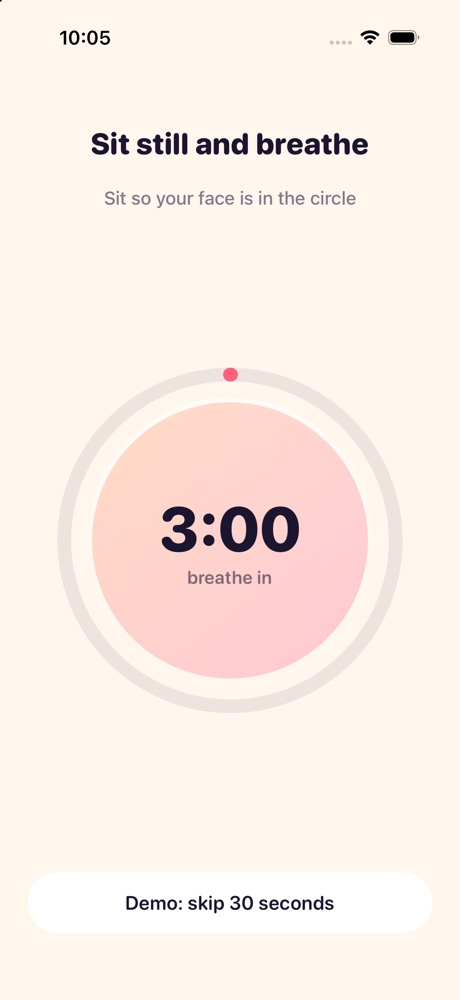
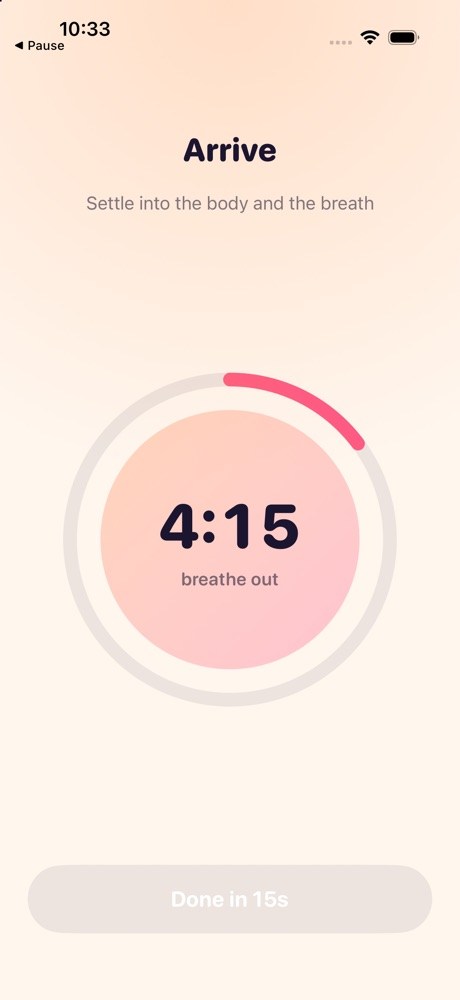
Honor system and guided meditations instead of camera checks

diff --git a/index.html b/index.html
@@ -4,9 +4,9 @@
 <meta charset="utf-8">
 <meta name="viewport" content="width=device-width, initial-scale=1">
 <title>Rise: Meditate to Wake Up</title>
-<meta name="description" content="An alarm that turns off after you sit still for 3 minutes.">
+<meta name="description" content="An alarm that stops after a short guided meditation.">
 <meta property="og:title" content="Rise: Meditate to Wake Up">
-<meta property="og:description" content="An alarm that turns off after you sit still for 3 minutes.">
+<meta property="og:description" content="An alarm that stops after a short guided meditation.">
 <meta property="og:image" content="img/home.jpg">
 <link rel="icon" href="img/icon.png">
 <link rel="preconnect" href="https://fonts.googleapis.com">
@@ -96,7 +96,7 @@
     <div>
       <span class="pill">🌅 Coming soon to iPhone</span>
       <h1>Wake up<br><span class="grad">calm.</span></h1>
-      <p class="lead">Your alarm turns off after you sit still for 3 minutes. Mind first, phone second.</p>
+      <p class="lead">Your alarm stops after a short guided meditation. Mind first, phone second.</p>
       
       <form class="waitlist" data-where="hero">
         <div class="row">
@@ -116,29 +116,29 @@
 
 <section><div class="wrap">
   <div class="eyebrow">How it works</div>
-  <h2>Three quiet minutes before the noise.</h2>
-  <p class="sub">No guided voice and no app to open. Just you, sitting still, before the day starts.</p>
-  <div class="steps"><div class="card"><div class="n">1</div><h3>Set your wake time</h3><p>Rise uses a real alarm that rings even on silent.</p></div><div class="card"><div class="n">2</div><h3>Sit up and breathe</h3><p>Prop your phone in front of you. The circle breathes with you.</p></div><div class="card"><div class="n">3</div><h3>Stay still</h3><p>Your camera checks you&#x27;re still. Move and the timer pauses. Then the alarm stops.</p></div></div>
-  <div class="tasks"><div class="task"><div class="e">🧘</div><div><h3>1, 3, 5 or 10 minutes</h3><p class="fine">Start with 1 and work up. Most people pick 3.</p></div></div><div class="task"><div class="e">📷</div><div><h3>Checked on your phone</h3><p class="fine">The camera only checks that you&#x27;re still. Nothing is recorded.</p></div></div></div>
+  <h2>A few quiet minutes before the noise.</h2>
+  <p class="sub">A short guided meditation, then your day. No scrolling first.</p>
+  <div class="steps"><div class="card"><div class="n">1</div><h3>Set your wake time</h3><p>Rise uses a real alarm that rings even on silent.</p></div><div class="card"><div class="n">2</div><h3>Pick a meditation</h3><p>Choose from a menu of short guided sits.</p></div><div class="card"><div class="n">3</div><h3>Sit with it</h3><p>The meditation plays. When you&#x27;re done, the alarm is off and the day begins.</p></div></div>
+  <div class="tasks"><div class="task"><div class="e">🧘</div><div><h3>5 to 10 minutes</h3><p class="fine">Arrive, breath counting, body scan, loving-kindness and more.</p></div></div><div class="task"><div class="e">🎧</div><div><h3>Guided audio</h3><p class="fine">Plays even on silent, with your screen locked.</p></div></div></div>
 </div></section>
 
 <section><div class="wrap">
   <div class="eyebrow">The math</div>
   <h2>Three minutes a day adds up.</h2>
   <p class="sub">Example numbers for one year.</p>
-  <div class="math"><div class="card"><div class="big">18 hours</div><p>of sitting a year.<br>3 min × 365 ÷ 60</p></div><div class="card"><div class="big">365</div><p>mornings that start calm.<br>1 a day × 365</p></div><div class="card"><div class="big">0</div><p>minutes on your phone<br>before you sit</p></div></div>
+  <div class="math"><div class="card"><div class="big">30 hours</div><p>of sitting a year.<br>5 min × 365 ÷ 60</p></div><div class="card"><div class="big">365</div><p>mornings that start calm.<br>1 a day × 365</p></div><div class="card"><div class="big">0</div><p>minutes on your phone<br>before you sit</p></div></div>
 </div></section>
 
 <section><div class="wrap">
   <div class="eyebrow">Inside the app</div>
   <h2>Simple on purpose.</h2>
-  <div class="gallery"><figure><div class="phone"><img src="img/intro.jpg" alt="Wake up calm" loading="lazy"></div><figcaption>Wake up calm</figcaption></figure><figure><div class="phone"><img src="img/mission.jpg" alt="Sit and breathe" loading="lazy"></div><figcaption>Sit and breathe</figcaption></figure><figure><div class="phone"><img src="img/projection.jpg" alt="Your year" loading="lazy"></div><figcaption>Your year</figcaption></figure><figure><div class="phone"><img src="img/home.jpg" alt="Your streak" loading="lazy"></div><figcaption>Your streak</figcaption></figure></div>
+  <div class="gallery"><figure><div class="phone"><img src="img/intro.jpg" alt="Wake up calm" loading="lazy"></div><figcaption>Wake up calm</figcaption></figure><figure><div class="phone"><img src="img/mission.jpg" alt="Guided meditation" loading="lazy"></div><figcaption>Guided meditation</figcaption></figure><figure><div class="phone"><img src="img/projection.jpg" alt="Your year" loading="lazy"></div><figcaption>Your year</figcaption></figure><figure><div class="phone"><img src="img/home.jpg" alt="Your streak" loading="lazy"></div><figcaption>Your streak</figcaption></figure></div>
 </div></section>
 
 <section><div class="wrap">
   <div class="eyebrow">Questions</div>
   <h2>Good questions.</h2>
-  <div class="faq"><details><summary>Do I need to know how to meditate?</summary><p>No. You just sit still and breathe with the circle. That&#x27;s it.</p></details><details><summary>Does the alarm work on silent?</summary><p>Yes. Rise uses Apple&#x27;s alarm system (iOS 26), the same one the Clock app uses.</p></details><details><summary>Does the camera record me?</summary><p>No. It only checks that your face is still. Nothing is saved or uploaded.</p></details><details><summary>Is it on Android?</summary><p>iPhone first. Join the waitlist and pick Android. That tells us how many people want it.</p></details></div>
+  <div class="faq"><details><summary>Do I need to know how to meditate?</summary><p>No. The recording guides you the whole way.</p></details><details><summary>Does the alarm work on silent?</summary><p>Yes. Rise uses Apple&#x27;s alarm system (iOS 26), the same one the Clock app uses.</p></details><details><summary>What if I&#x27;m short on time?</summary><p>Pick a 5-minute one. You can tap done after the first minute.</p></details><details><summary>Is it on Android?</summary><p>iPhone first. Join the waitlist and pick Android. That tells us how many people want it.</p></details></div>
 </div></section>
 
 <section class="final" id="join"><div class="wrap">

diff --git a/privacy.html b/privacy.html
@@ -4,7 +4,7 @@
 h1{font:900 40px ui-rounded,system-ui,sans-serif;margin:0 0 6px}h2{font:800 22px ui-rounded,system-ui,sans-serif;margin:36px 0 8px}p{color:rgba(28,21,48,.6)}a{color:#FF8A3D}.date{font-size:14px}</style>
 </head><body><main><p><a href="index.html">← Rise</a></p><h1>Privacy Policy</h1><p class="date">Last updated: October 20, 2026</p>
 <p>Rise is built to know as little about you as possible.</p>
-<h2>The camera</h2><p>The camera checks your push-ups or that you're sitting still. This happens on your phone, as it happens. No photos or video are saved, uploaded or shared.</p>
+<h2>No camera, no microphone</h2><p>Rise doesn't use your camera or microphone.</p>
 <h2>What stays on your phone</h2><p>Your settings, streaks and quiz answers stay on your phone.</p>
 <h2>This website</h2><p>If you join the waitlist, we store your email and which phone you use. We use it only to tell you about Rise. You can ask us to delete it at any time.</p>
 <h2>Children</h2><p>Rise is not meant for children under 13.</p></main></body></html>

diff --git a/support.html b/support.html
@@ -4,5 +4,5 @@
 h1{font:900 40px ui-rounded,system-ui,sans-serif;margin:0 0 6px}h2{font:800 22px ui-rounded,system-ui,sans-serif;margin:36px 0 8px}p{color:rgba(28,21,48,.6)}a{color:#FF8A3D}.date{font-size:14px}</style>
 </head><body><main><p><a href="index.html">← Rise</a></p><h1>Support</h1>
 <p>Questions about Rise? We usually reply within a day.</p>
-<h2>The camera doesn't see me</h2><p>Check that camera access is on in Settings → Rise → Camera. Use a bright room and make sure your upper body is in the frame.</p>
+<h2>The meditation won't play out loud</h2><p>Turn up the volume. Meditations play even on silent mode.</p>
 <h2>How do I cancel?</h2><p>Use the "Manage subscription" link in the app, or the link in your receipt email.</p></main></body></html>
